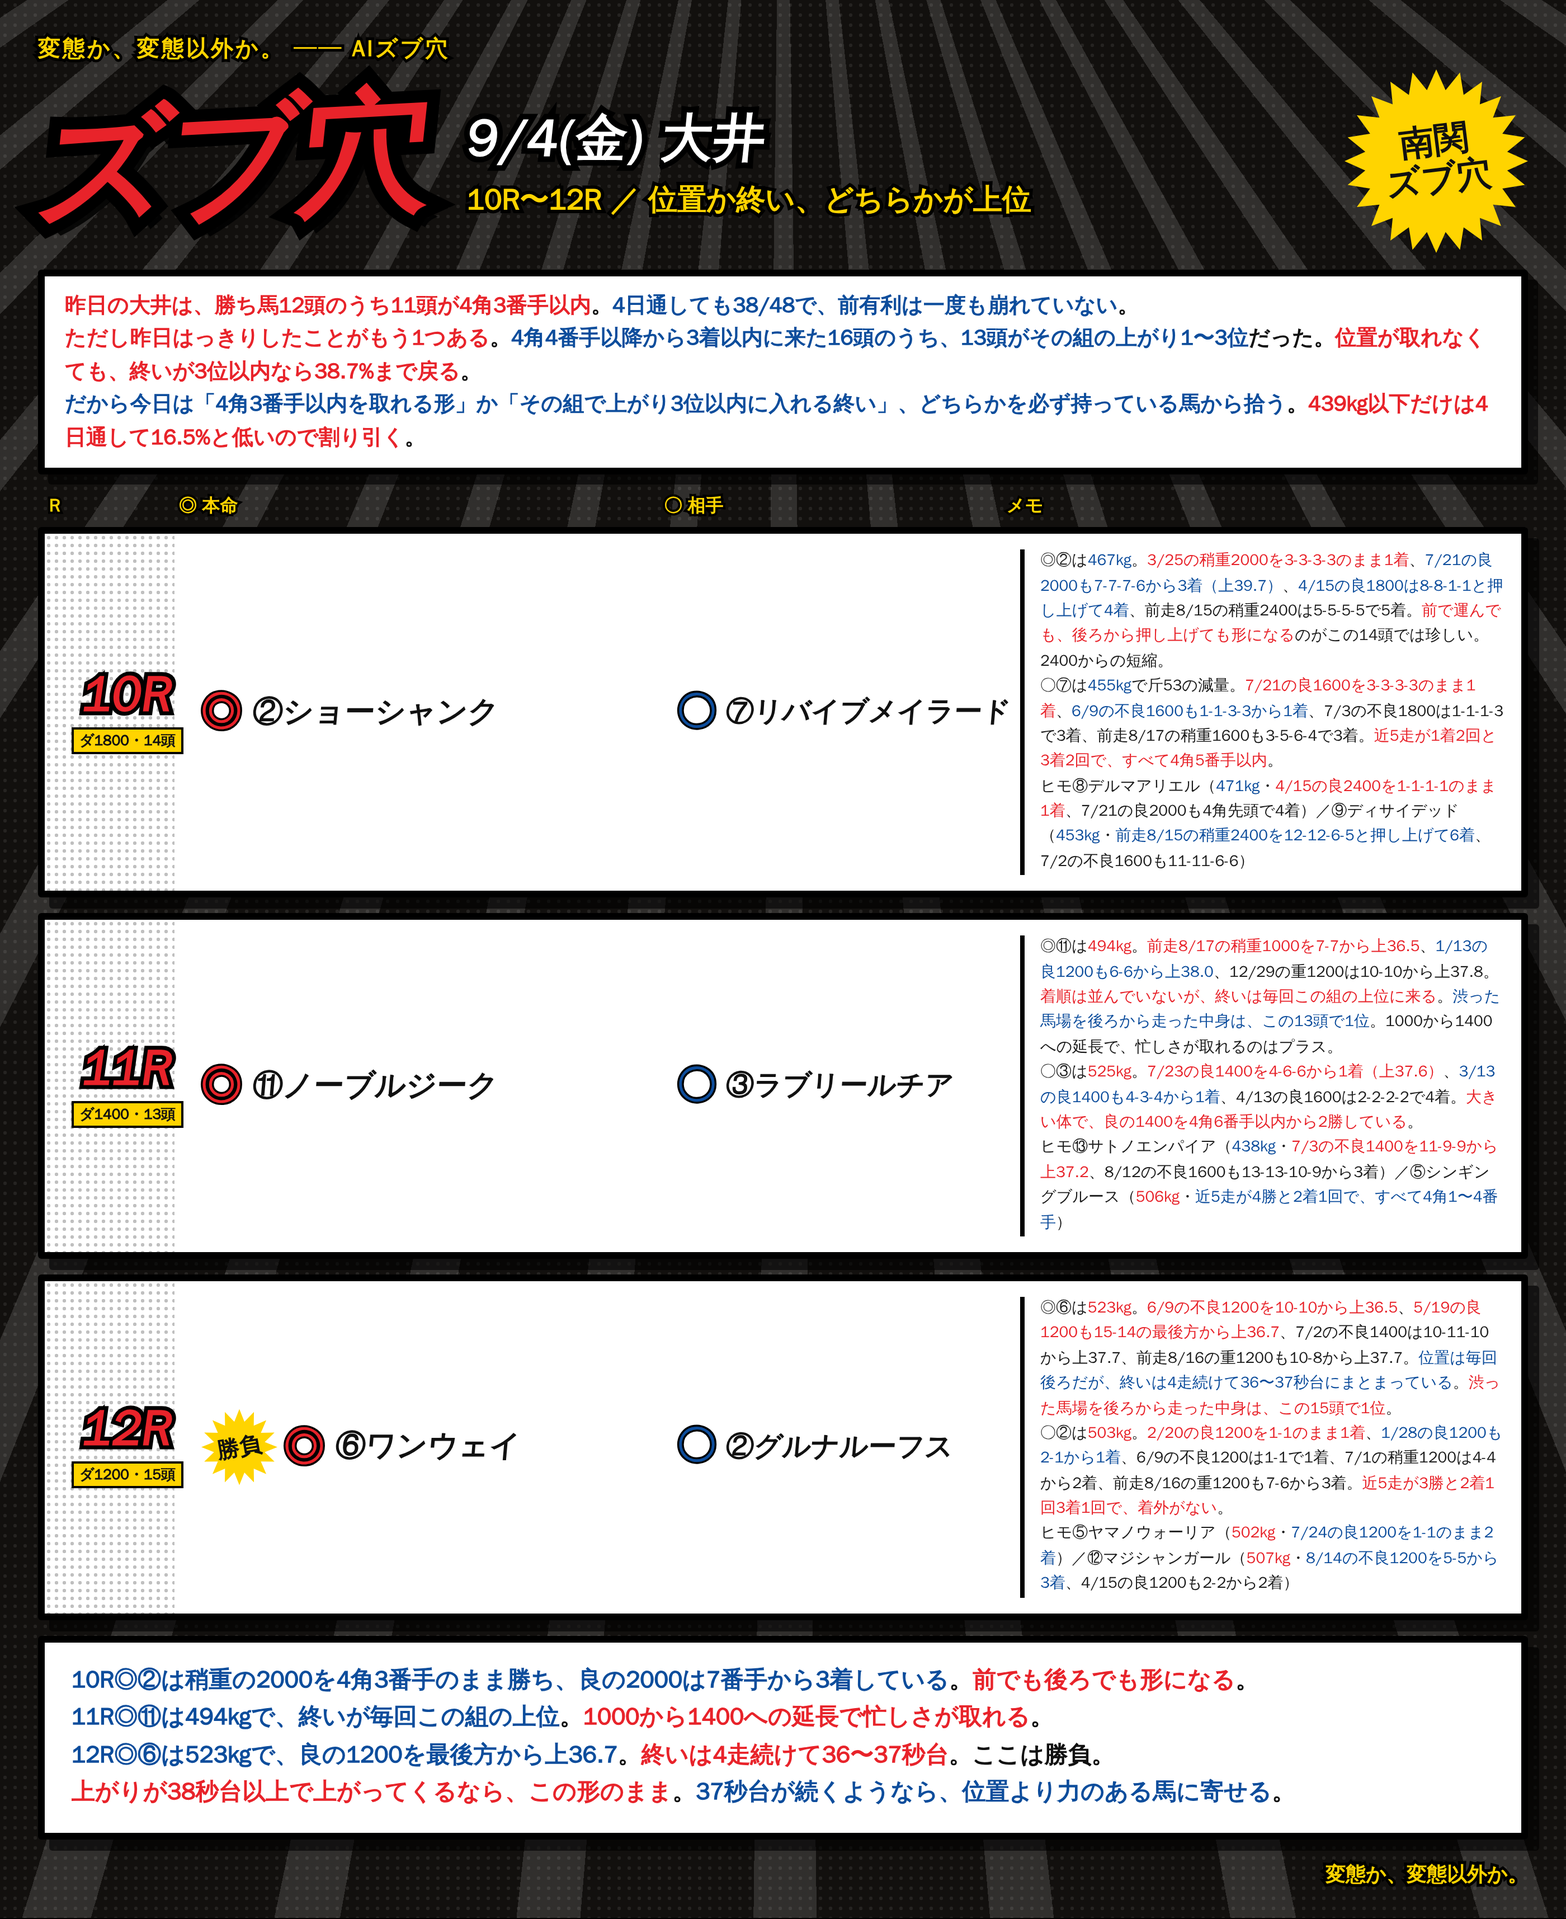
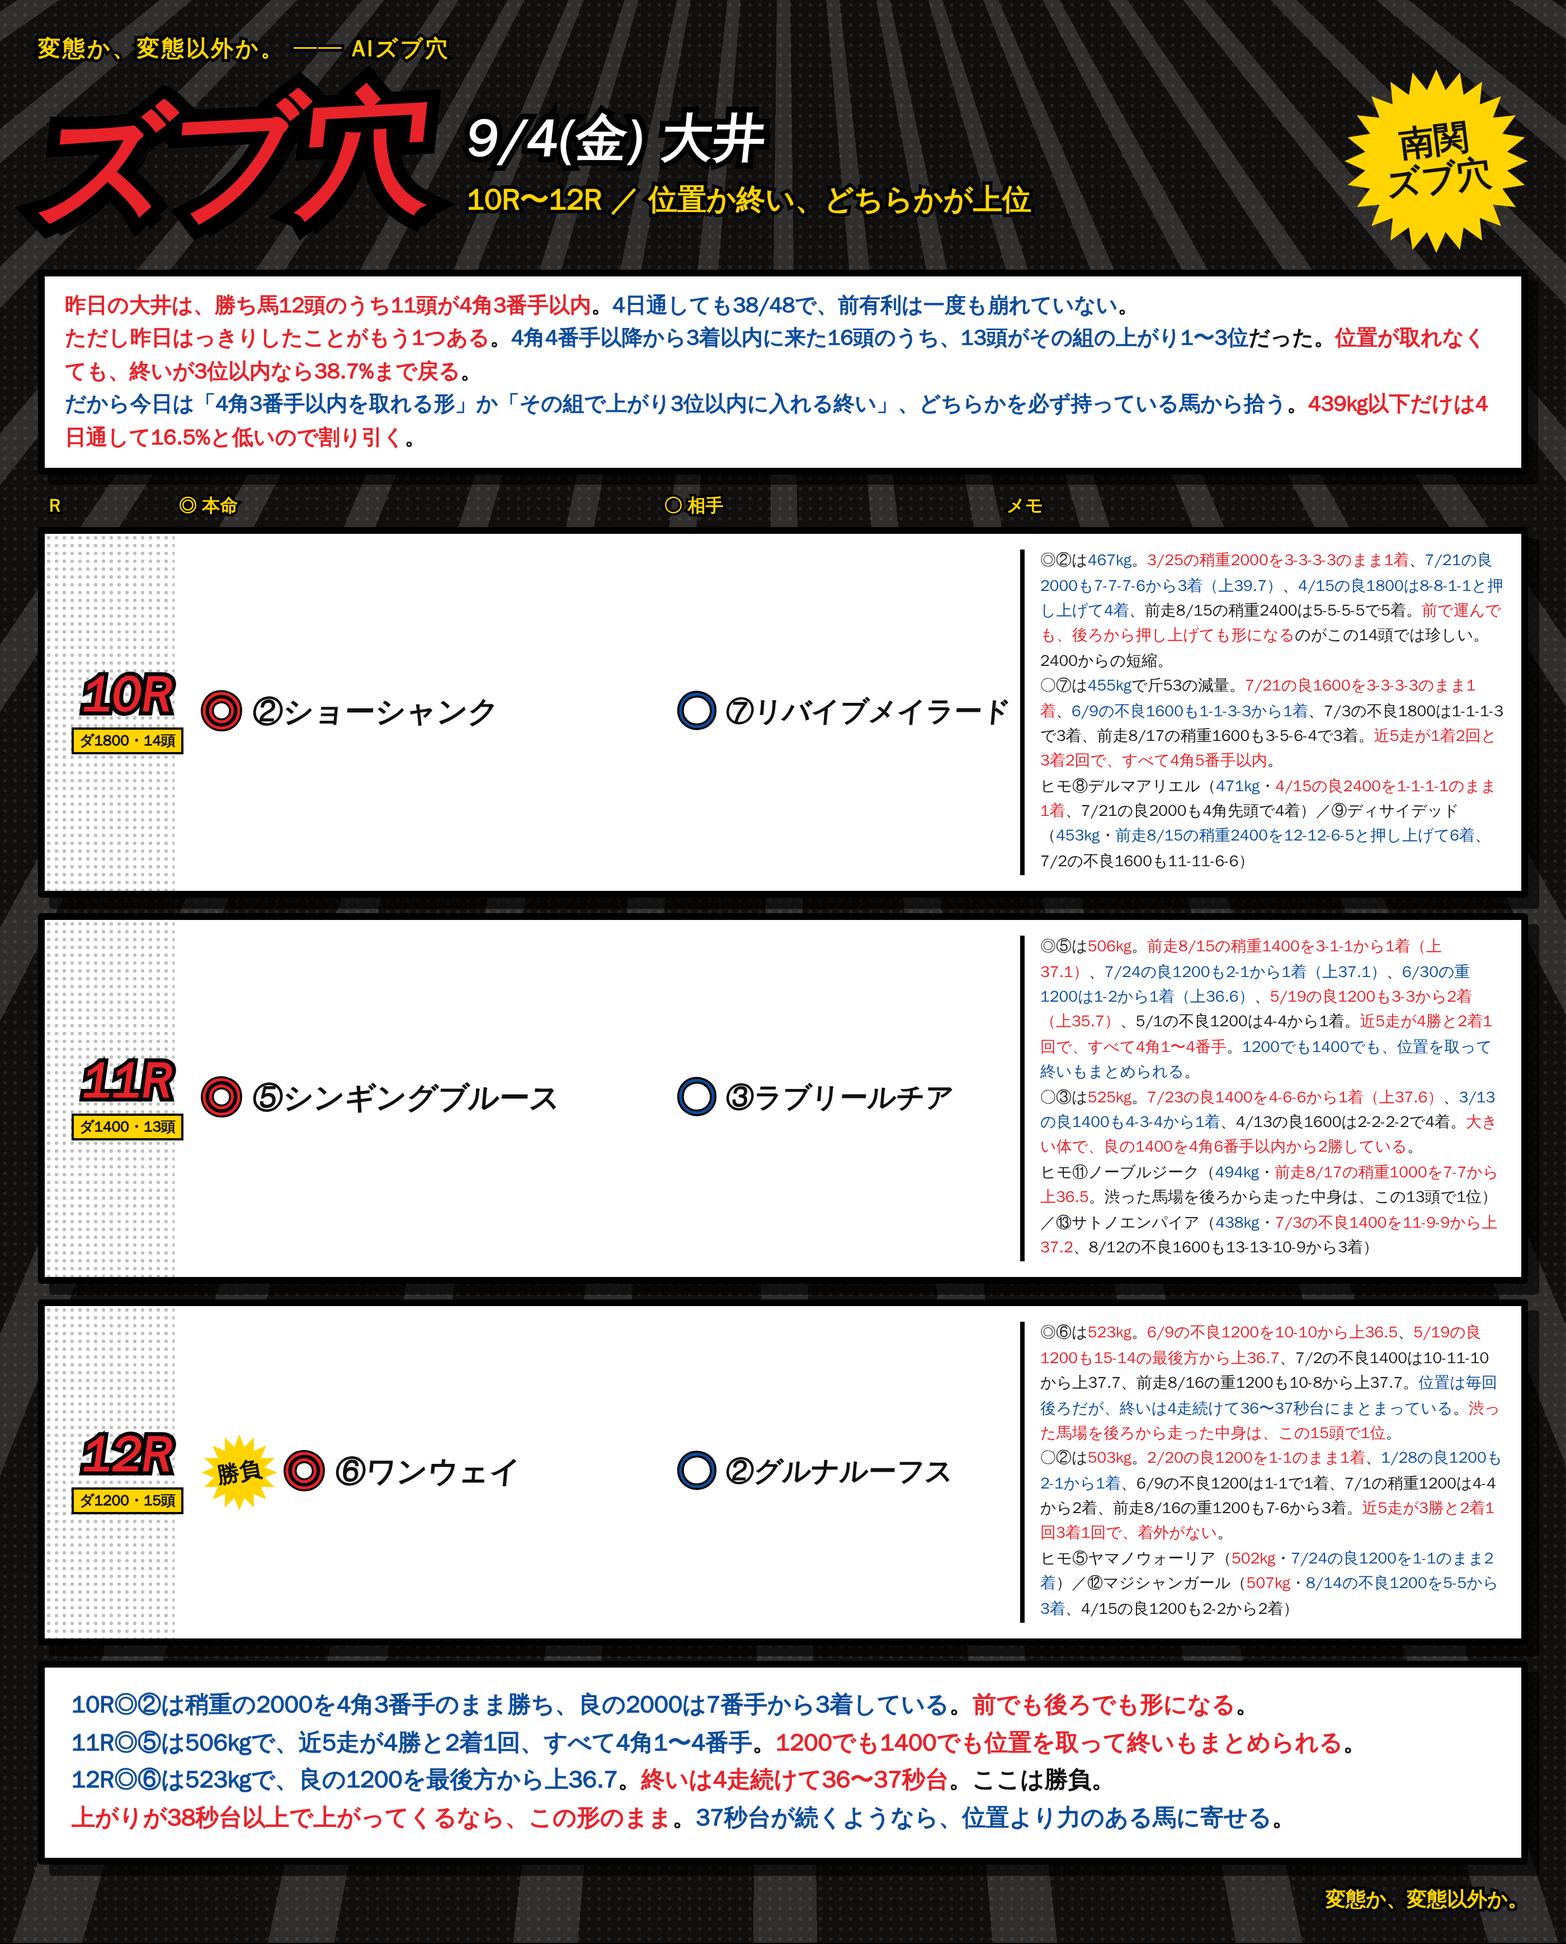
notes: 9/4 大井 7R⑧取消と11Rの本命差し替えを反映
7Rは◎が取消になったため⑦を本命に繰り上げ、○を⑨に。勝負は
12Rの1つに減らした。11Rは本命を⑤に変更し、⑪をヒモへ下げた。

Claude-Session: https://claude.ai/code/session_01RoHscZkr96FNaxQWvUqgEw

diff --git a/notes/live/2026-09-04/oi_7_9.html b/notes/live/2026-09-04/oi_7_9.html
@@ -83,10 +83,10 @@
 <div class="cols"><div class="cR">R</div><div class="cH">◎ 本命</div><div class="cA">○ 相手</div><div class="cM">メモ</div></div>
 
   <div class="row"><div class="corner"></div>
-    <div class="rN"><div class="n">7R</div><div class="d">ダ1600・9頭</div></div>
-    <div class="hm"><div class="sb"><span>勝負</span></div><span class="mk">◎</span><span class="nm">⑧グロワールスカイ</span></div>
-    <div class="at"><span class="mk2">○</span><span class="nm2">⑦コーゲンシルバー</span></div>
-    <div class="memo">◎⑧は<b class='r'>504kg</b>。<b class='r'>7/24の良1600を8-7-2-1と押し上げて3着（上38.2）</b>、<b>6/12の稍重1600も6-6-5-4から1着（上38.5）</b>、7/2の不良1600は7-6-5-5で5着。<b class='r'>道中で必ず前に取り付いて、4角では3番手以内にいる</b>。<b>渋った馬場を後ろから走った中身も、この9頭で1位</b>。<br>○⑦は<b>463kg</b>。<b class='r'>7/24の良1600を3-3-4-4から2着（上38.2）</b>、<b>6/12の稍重1600も4-4-4-4から2着</b>、7/1の稍重1600は6-7-7-7で3着。<b class='r'>近5走とも大井1600だけを使われて、崩れがない</b>。<br>ヒモ⑨ヴィラスターリ（<b class='r'>511kg</b>・<b>大井1600で近5走とも1着</b>・1-1-1-1や2-2-2-2で押し切る形）／①カラーオブジアース（<b>475kg</b>・<b class='r'>8/14の不良1600を10-11-10-10から4着、上39.7は11頭で1位</b>）</div>
+    <div class="rN"><div class="n">7R</div><div class="d">ダ1600・8頭</div></div>
+    <div class="hm"><span class="mk">◎</span><span class="nm">⑦コーゲンシルバー</span></div>
+    <div class="at"><span class="mk2">○</span><span class="nm2">⑨ヴィラスターリ</span></div>
+    <div class="memo">◎⑦は<b>463kg</b>。<b class='r'>7/24の良1600を3-3-4-4から2着（上38.2）</b>、<b>6/12の稍重1600も4-4-4-4から2着</b>、<b>7/1の稍重1600は6-7-7-7から3着</b>、前走8/16の重1600も5-5-6-5で4着。<b class='r'>近5走とも大井1600だけを使われて、四角は3〜7番手に収まっている</b>。<b>位置も終いも、この組で下にはならない</b>。<br>○⑨は<b class='r'>511kg</b>。<b class='r'>大井1600で近5走とも1着</b>で、<b>1-1-1-1や2-2-2-2、3-4-4-3と、すべて4角1〜4番手</b>。<b class='r'>位置の裏付けだけを見ればこの8頭で断トツ</b>。前走からは間が空いている。<br>ヒモ②ユーヒナタ（<b>470kg・斤51の減量</b>・<b class='r'>7/24の良1600を6-6-7-7から上38.9</b>、前走8/16の重1600も9-9-7-7で5着）／①カラーオブジアース（<b>475kg</b>・<b class='r'>8/14の不良1600を10-11-10-10から4着、上39.7は11頭で1位</b>）</div>
   </div>
 
   <div class="row"><div class="corner"></div>
@@ -102,6 +102,6 @@
     <div class="at"><span class="mk2">○</span><span class="nm2">②ナンパセン</span></div>
     <div class="memo">◎⑦は<b>476kg</b>。<b class='r'>6/11の稍重1800を3-3-1-1と上げて1着</b>、<b>前走8/15の重2000も5-5-1-1から4着</b>、<b>6/30の重2000は1-1-2-2で4着</b>。<b class='r'>3〜4角で必ず先頭に立つ形が、近走ではっきり固まっている</b>。2400は初めてだが、<b>7頭立てで位置の取り合いにならない</b>。<br>○②は<b class='r'>541kgで、この7頭で最大の体</b>。<b class='r'>7/21の良1800を3-3-3-3のまま1着</b>、<b>前走8/16の重2000も1-1-1-1から2着</b>。<b class='r'>大きい体で4角1番手を取り切れる</b>。<br>ヒモ③スリーレジェンド（<b class='r'>518kg</b>・<b>7/23の良1650を5-5-3-3から1着</b>、5/1の不良2000も1着。渋った馬場を後ろから走った中身は7頭で1位）／①トランジェント（<b>473kg</b>・<b class='r'>8/16の重2000を3-3-3-3のまま1着</b>）</div>
   </div>
-<div class="foot"><span class="b">7R◎⑧は504kgで、良の1600を8-7-2-1と押し上げて3着、稍重の1600は4角4番手から勝っている</span>。<span class="r">位置を取りにいける形と終いの両方がある</span>。ここは勝負。<br><span class="b">8R◎⑥は529kgで、稍重の1400を最後方から上37.6</span>。<span class="r">6頭立てで位置の差が付きにくいぶん、終いの差が出やすい</span>。<br><span class="b">9R◎⑦は3〜4角で必ず先頭に立つ形が固まっていて、稍重の1800を勝っている</span>。<span class="r">7頭立てなら位置の取り合いにならない</span>。<br><span class="r">4角3番手以内を取れるか、その組で上がり3位以内に入れる馬</span>にこの条件が向いている。</div>
+<div class="foot"><span class="b">7R◎⑦は近5走とも大井1600で、四角は3〜7番手に収まっている</span>。<span class="r">良の1600を3-3-4-4から2着、上38.2</span>。<span class="b">○⑨は511kgで、大井1600の近5走とも1着</span>。<br><span class="b">8R◎⑥は529kgで、稍重の1400を最後方から上37.6</span>。<span class="r">6頭立てで位置の差が付きにくいぶん、終いの差が出やすい</span>。<br><span class="b">9R◎⑦は3〜4角で必ず先頭に立つ形が固まっていて、稍重の1800を勝っている</span>。<span class="r">7頭立てなら位置の取り合いにならない</span>。<br><span class="r">4角3番手以内を取れるか、その組で上がり3位以内に入れる馬</span>にこの条件が向いている。</div>
 <div class="sig">変態か、変態以外か。 ── ②へ続く</div>
 </div></div></body></html>

diff --git a/notes/live/2026-09-04/oi_10_12.html b/notes/live/2026-09-04/oi_10_12.html
@@ -91,9 +91,9 @@
 
   <div class="row"><div class="corner"></div>
     <div class="rN"><div class="n">11R</div><div class="d">ダ1400・13頭</div></div>
-    <div class="hm"><span class="mk">◎</span><span class="nm">⑪ノーブルジーク</span></div>
+    <div class="hm"><span class="mk">◎</span><span class="nm">⑤シンギングブルース</span></div>
     <div class="at"><span class="mk2">○</span><span class="nm2">③ラブリールチア</span></div>
-    <div class="memo">◎⑪は<b class='r'>494kg</b>。<b class='r'>前走8/17の稍重1000を7-7から上36.5</b>、<b>1/13の良1200も6-6から上38.0</b>、12/29の重1200は10-10から上37.8。<b class='r'>着順は並んでいないが、終いは毎回この組の上位に来る</b>。<b>渋った馬場を後ろから走った中身は、この13頭で1位</b>。1000から1400への延長で、忙しさが取れるのはプラス。<br>○③は<b class='r'>525kg</b>。<b class='r'>7/23の良1400を4-6-6から1着（上37.6）</b>、<b>3/13の良1400も4-3-4から1着</b>、4/13の良1600は2-2-2-2で4着。<b class='r'>大きい体で、良の1400を4角6番手以内から2勝している</b>。<br>ヒモ⑬サトノエンパイア（<b>438kg</b>・<b class='r'>7/3の不良1400を11-9-9から上37.2</b>、8/12の不良1600も13-13-10-9から3着）／⑤シンギングブルース（<b class='r'>506kg</b>・<b>近5走が4勝と2着1回で、すべて4角1〜4番手</b>）</div>
+    <div class="memo">◎⑤は<b class='r'>506kg</b>。<b class='r'>前走8/15の稍重1400を3-1-1から1着（上37.1）</b>、<b>7/24の良1200も2-1から1着（上37.1）</b>、<b>6/30の重1200は1-2から1着（上36.6）</b>、<b class='r'>5/19の良1200も3-3から2着（上35.7）</b>、5/1の不良1200は4-4から1着。<b class='r'>近5走が4勝と2着1回で、すべて4角1〜4番手</b>。<b>1200でも1400でも、位置を取って終いもまとめられる</b>。<br>○③は<b class='r'>525kg</b>。<b class='r'>7/23の良1400を4-6-6から1着（上37.6）</b>、<b>3/13の良1400も4-3-4から1着</b>、4/13の良1600は2-2-2-2で4着。<b class='r'>大きい体で、良の1400を4角6番手以内から2勝している</b>。<br>ヒモ⑪ノーブルジーク（<b>494kg</b>・<b class='r'>前走8/17の稍重1000を7-7から上36.5</b>。渋った馬場を後ろから走った中身は、この13頭で1位）／⑬サトノエンパイア（<b>438kg</b>・<b class='r'>7/3の不良1400を11-9-9から上37.2</b>、8/12の不良1600も13-13-10-9から3着）</div>
   </div>
 
   <div class="row"><div class="corner"></div>
@@ -102,6 +102,6 @@
     <div class="at"><span class="mk2">○</span><span class="nm2">②グルナルーフス</span></div>
     <div class="memo">◎⑥は<b class='r'>523kg</b>。<b class='r'>6/9の不良1200を10-10から上36.5</b>、<b class='r'>5/19の良1200も15-14の最後方から上36.7</b>、7/2の不良1400は10-11-10から上37.7、前走8/16の重1200も10-8から上37.7。<b>位置は毎回後ろだが、終いは4走続けて36〜37秒台にまとまっている</b>。<b class='r'>渋った馬場を後ろから走った中身は、この15頭で1位</b>。<br>○②は<b class='r'>503kg</b>。<b class='r'>2/20の良1200を1-1のまま1着</b>、<b>1/28の良1200も2-1から1着</b>、6/9の不良1200は1-1で1着、7/1の稍重1200は4-4から2着、前走8/16の重1200も7-6から3着。<b class='r'>近5走が3勝と2着1回3着1回で、着外がない</b>。<br>ヒモ⑤ヤマノウォーリア（<b class='r'>502kg</b>・<b>7/24の良1200を1-1のまま2着</b>）／⑫マジシャンガール（<b class='r'>507kg</b>・<b>8/14の不良1200を5-5から3着</b>、4/15の良1200も2-2から2着）</div>
   </div>
-<div class="foot"><span class="b">10R◎②は稍重の2000を4角3番手のまま勝ち、良の2000は7番手から3着している</span>。<span class="r">前でも後ろでも形になる</span>。<br><span class="b">11R◎⑪は494kgで、終いが毎回この組の上位</span>。<span class="r">1000から1400への延長で忙しさが取れる</span>。<br><span class="b">12R◎⑥は523kgで、良の1200を最後方から上36.7</span>。<span class="r">終いは4走続けて36〜37秒台</span>。ここは勝負。<br><span class="r">上がりが38秒台以上で上がってくるなら、この形のまま</span>。<span class="b">37秒台が続くようなら、位置より力のある馬に寄せる</span>。</div>
+<div class="foot"><span class="b">10R◎②は稍重の2000を4角3番手のまま勝ち、良の2000は7番手から3着している</span>。<span class="r">前でも後ろでも形になる</span>。<br><span class="b">11R◎⑤は506kgで、近5走が4勝と2着1回、すべて4角1〜4番手</span>。<span class="r">1200でも1400でも位置を取って終いもまとめられる</span>。<br><span class="b">12R◎⑥は523kgで、良の1200を最後方から上36.7</span>。<span class="r">終いは4走続けて36〜37秒台</span>。ここは勝負。<br><span class="r">上がりが38秒台以上で上がってくるなら、この形のまま</span>。<span class="b">37秒台が続くようなら、位置より力のある馬に寄せる</span>。</div>
 <div class="sig">変態か、変態以外か。</div>
 </div></div></body></html>

diff --git a/notes/live/2026-09-04/README.md b/notes/live/2026-09-04/README.md
@@ -22,40 +22,42 @@
 
 ### 少頭数に注意
 
-**7R 9頭・8R 6頭・9R 7頭**と前半3鞍が少頭数。位置の差が付きにくく、終いの差が出やすい。
+**7R 8頭（⑧取消）・8R 6頭・9R 7頭**と前半3鞍が少頭数。位置の差が付きにくく、終いの差が出やすい。
 
 ### 印
 
 | R | 条件 | ◎ 本命 | ○ 相手 | ヒモ |
 |---|---|---|---|---|
-| 7R **勝負** | ダ1600・9頭 | ⑧グロワールスカイ | ⑦コーゲンシルバー | ⑨① |
+| 7R | ダ1600・8頭 | ⑦コーゲンシルバー | ⑨ヴィラスターリ | ②① |
 | 8R | ダ1400・6頭 | ⑥ビッティンキバラ | ①ルガルバンダ | ⑤③ |
 | 9R | ダ2400・7頭 | ⑦ドウジギリ | ②ナンパセン | ③① |
 | 10R | ダ1800・14頭 | ②ショーシャンク | ⑦リバイブメイラード | ⑧⑨ |
-| 11R | ダ1400・13頭 | ⑪ノーブルジーク | ③ラブリールチア | ⑬⑤ |
+| 11R | ダ1400・13頭 | ⑤シンギングブルース | ③ラブリールチア | ⑪⑬ |
 | 12R **勝負** | ダ1200・15頭 | ⑥ワンウェイ | ②グルナルーフス | ⑤⑫ |
 
-- **勝負は7Rと12Rの2つ**。どちらも下地スコアが組の1位で、かつ大型
-- 下地スコアで組の1位は 7R◎⑧（11.6）・9Rヒモ③（15.9）・11Rヒモ⑬（15.1）・12R◎⑥（16.3）
-- ◎6頭はすべて前走で馬券になっていない
-- 大型：7R◎⑧504kg・ヒモ⑨511kg ／ 8R◎⑥**529kg** ／ 9R○②**541kg**・ヒモ③518kg ／
-  11R◎⑪494kg・○③525kg・ヒモ⑤506kg ／ 12R◎⑥**523kg**・○②503kg・ヒモ⑤502kg・⑫507kg
+- **勝負は12Rの1つ**（当初は7Rも勝負にしていたが、◎⑧が取消になったため外した）
+- 下地スコアで組の1位は 9Rヒモ③（15.9）・11Rヒモ⑬（15.1）・12R◎⑥（16.3）。
+  7R◎⑦は取消を除いた8頭で1位（11.3）
+- ◎は11R⑤（前走1着）以外、すべて前走で馬券になっていない
+- 大型：7R○⑨511kg ／ 8R◎⑥**529kg** ／ 9R○②**541kg**・ヒモ③518kg ／
+  11R◎⑤506kg・○③525kg・ヒモ⑪494kg ／ 12R◎⑥**523kg**・○②503kg・ヒモ⑤502kg・⑫507kg
 
 ### ◎の根拠（位置か終い、どちらが上位か）
 
 | R | ◎ | 根拠 |
 |---|---|---|
-| 7R | ⑧グロワールスカイ | **両方**。良1600を8-7-2-1と押し上げて3着（上38.2）、稍重1600は4角4番手から1着 |
+| 7R | ⑦コーゲンシルバー | **両方**。近5走とも大井1600で4角3〜7番手。良1600を3-3-4-4から2着（上38.2） |
 | 8R | ⑥ビッティンキバラ | **終い**。稍重1400を15-15-15の最後方から上37.6。529kg |
 | 9R | ⑦ドウジギリ | **位置**。3〜4角で必ず先頭に立つ。稍重1800を3-3-1-1で1着 |
 | 10R | ②ショーシャンク | **両方**。稍重2000を3-3-3-3で1着、良2000は7-7-7-6から3着（上39.7） |
-| 11R | ⑪ノーブルジーク | **終い**。前走の稍重1000で上36.5。下地は13頭で1位 |
+| 11R | ⑤シンギングブルース | **位置**。近5走が4勝と2着1回で、すべて4角1〜4番手 |
 | 12R | ⑥ワンウェイ | **終い**。良1200を15-14の最後方から上36.7。4走続けて36〜37秒台 |
 
 ### 前開催A群/B群
 
 - **11R ⑬サトノエンパイア（A群）** … 下地15.1で組の1位。ただし438kgかつ4角9〜13番手が定位置。
   7/3の不良1400で上37.2があるので**ヒモには残す**
+- 11R⑪ノーブルジークは下地14.1。当初◎に置いたが、◎⑤への差し替えでヒモに下げた
 - 10R ⑤エクラシェール（B群）… 下地10.6。1800は初距離で印は回さない
 - 12R ④ドピエッタ（前開催で単17,570円の勝ち馬）… 下地13.0だが良1200は11着・8着。印なし
 
